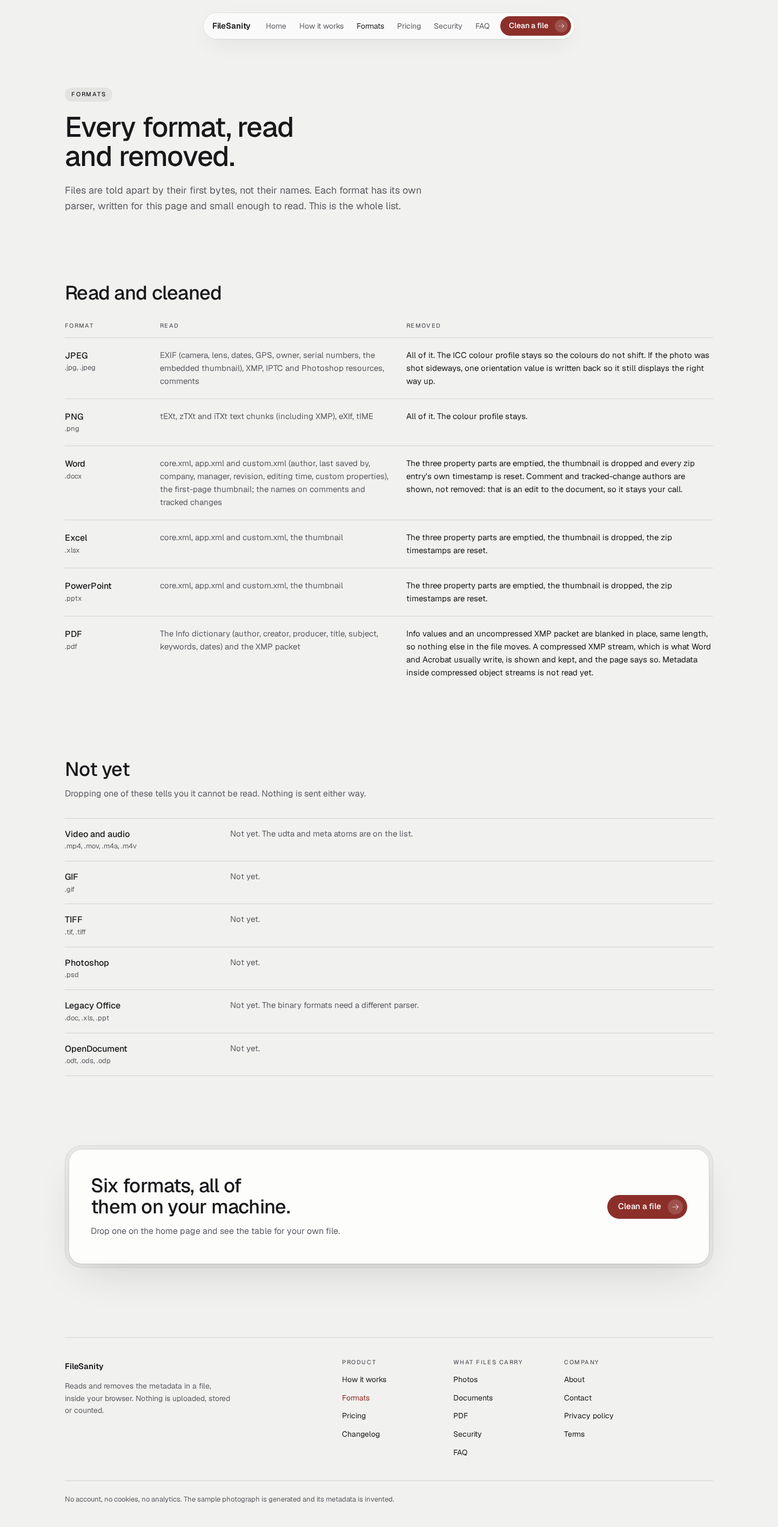
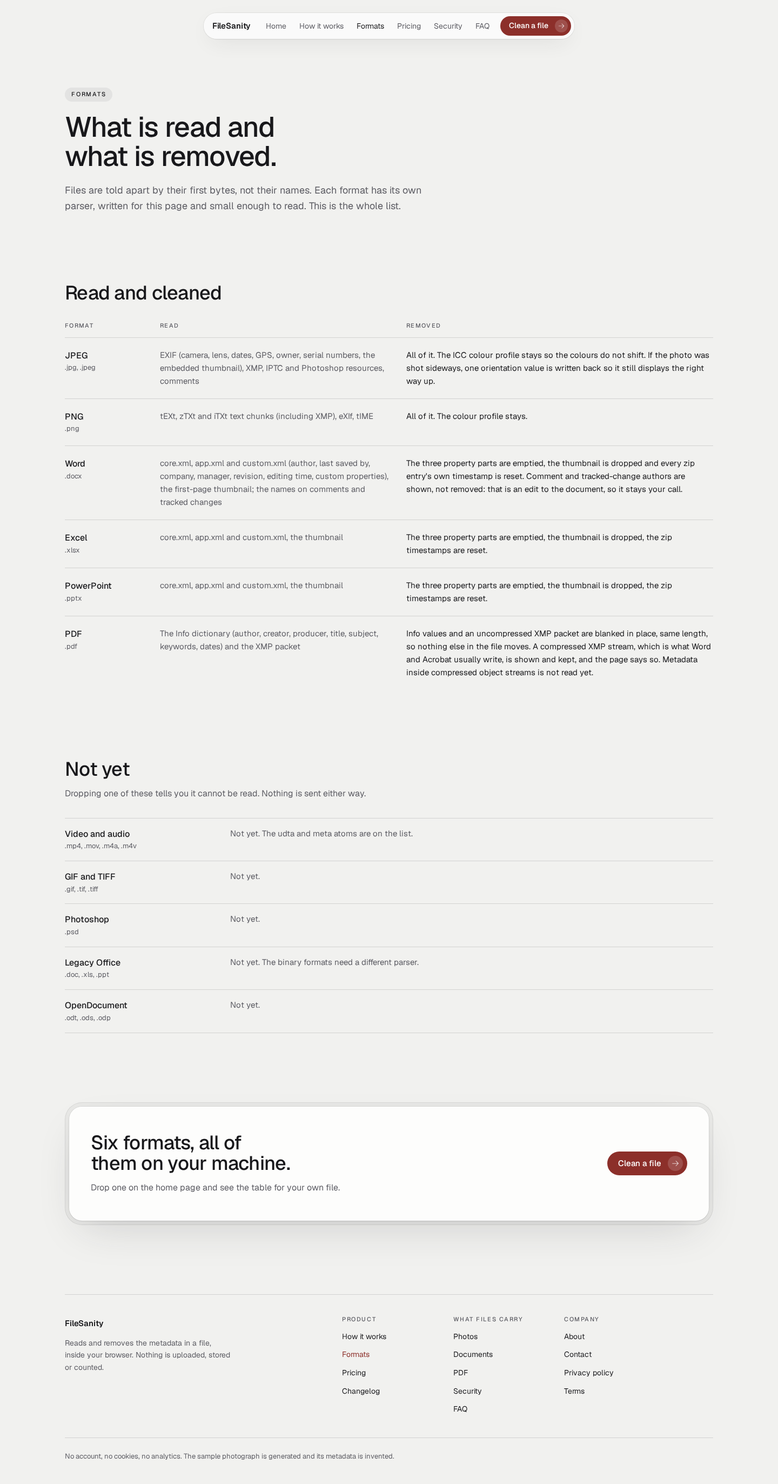
fix(site): critic round 1: published source and source map, marked placeholders and mailbox, menu focus trap, custom easings, security rows, headlines, five-item lists, no negative z

diff --git a/src/ui/Nav.tsx b/src/ui/Nav.tsx
@@ -16,14 +16,24 @@ export function Nav({ path, onClean }: { path: string; onClean?: () => void }) {
   const [open, setOpen] = useState(false)
   const first = useRef<HTMLAnchorElement>(null)
   const burger = useRef<HTMLButtonElement>(null)
+  const header = useRef<HTMLElement>(null)
 
   useEffect(() => {
     document.body.style.overflow = open ? 'hidden' : ''
+    // Everything outside the header is inert while the menu is open, so Tab stays inside nav and menu.
+    document.querySelectorAll<HTMLElement>('#root > :not(header)').forEach((el) => el.toggleAttribute('inert', open))
     if (open) first.current?.focus()
     const key = (e: KeyboardEvent) => {
-      if (e.key === 'Escape' && open) {
+      if (!open) return
+      if (e.key === 'Escape') {
         setOpen(false)
         burger.current?.focus()
+      } else if (e.key === 'Tab') {
+        // Wrap inside the header: inert covers the page, this covers the browser chrome.
+        const items = Array.from(header.current?.querySelectorAll<HTMLElement>('a[href], button') ?? []).filter((el) => el.tabIndex >= 0 && el.offsetParent !== null)
+        const i = items.indexOf(document.activeElement as HTMLElement)
+        if (e.shiftKey && (i <= 0)) { e.preventDefault(); items[items.length - 1]?.focus() }
+        else if (!e.shiftKey && i === items.length - 1) { e.preventDefault(); items[0]?.focus() }
       }
     }
     window.addEventListener('keydown', key)
@@ -43,7 +53,25 @@ export function Nav({ path, onClean }: { path: string; onClean?: () => void }) {
   )
 
   return (
-    <header className="pointer-events-none fixed inset-x-0 top-0 z-30 flex justify-center px-4 pt-4 sm:pt-6">
+    <header ref={header} className="pointer-events-none fixed inset-x-0 top-0 z-30 flex justify-center px-4 pt-4 sm:pt-6">
+      {/* The overlay comes first in the DOM so the nav pill paints over it without a z-index. */}
+      <div id="menu" data-open={open} className="menu pointer-events-auto fixed inset-0 bg-[rgb(241_241_239/0.86)] backdrop-blur-2xl lg:hidden">
+        <ul className="flex h-full flex-col justify-center gap-2 px-8">
+          {NAV.map(([href, label], i) => (
+            <li key={href} className="menu-item" style={{ '--d': `${80 + i * 50}ms` } as React.CSSProperties}>
+              <a
+                ref={i === 0 ? first : undefined}
+                href={href}
+                aria-current={path === href ? 'page' : undefined}
+                tabIndex={open ? 0 : -1}
+                className="block py-2 text-[2rem] font-medium tracking-[-0.02em] text-ink aria-[current=page]:text-accent"
+              >
+                {label}
+              </a>
+            </li>
+          ))}
+        </ul>
+      </div>
       <nav
         aria-label="Main"
         className="pointer-events-auto flex w-full max-w-[52rem] items-center gap-2 rounded-full bg-[rgb(253_253_252/0.78)] p-1.5 pl-4 shadow-[0_0_0_1px_var(--hair),var(--shadow)] backdrop-blur-xl lg:w-max"
@@ -57,7 +85,7 @@ export function Nav({ path, onClean }: { path: string; onClean?: () => void }) {
               <a
                 href={href}
                 aria-current={path === href ? 'page' : undefined}
-                className="block rounded-full px-3 py-1.5 text-[0.875rem] text-muted transition-colors duration-200 hover:text-ink aria-[current=page]:text-ink"
+                className="block rounded-full px-3 py-1.5 text-[0.875rem] text-muted transition-colors duration-200 ease-[var(--ease)] hover:text-ink aria-[current=page]:text-ink"
               >
                 {label}
               </a>
@@ -78,29 +106,6 @@ export function Nav({ path, onClean }: { path: string; onClean?: () => void }) {
           <span aria-hidden="true" />
         </button>
       </nav>
-      <div
-        id="menu"
-        data-open={open}
-        className="menu pointer-events-auto fixed inset-0 z-[-1] bg-[rgb(241_241_239/0.86)] backdrop-blur-2xl lg:hidden"
-        style={{ opacity: open ? 1 : 0, visibility: open ? 'visible' : 'hidden' }}
-      >
-        <ul className="flex h-full flex-col justify-center gap-2 px-8">
-          {NAV.map(([href, label], i) => (
-            <li key={href} style={{ '--d': `${80 + i * 50}ms` } as React.CSSProperties} className="menu-item">
-              <a
-                ref={i === 0 ? first : undefined}
-                href={href}
-                aria-current={path === href ? 'page' : undefined}
-                tabIndex={open ? 0 : -1}
-                className="block py-2 text-[2rem] font-medium tracking-[-0.02em] text-ink aria-[current=page]:text-accent"
-                style={{ '--d': `${80 + i * 50}ms` } as React.CSSProperties}
-              >
-                {label}
-              </a>
-            </li>
-          ))}
-        </ul>
-      </div>
     </header>
   )
 }

diff --git a/src/pages/Security.tsx b/src/pages/Security.tsx
@@ -11,14 +11,13 @@ const NONE: [string, string][] = [
   ['No cookies', 'Nothing is set, so nothing is read on your next visit and there is no banner to click.'],
   ['No account', 'Nothing to sign up for, nothing to leak if a database is breached, because there is no database.'],
   ['No third parties', 'The font, the stylesheet and the script are served from the same place as the page. No CDN of someone else\'s, no embedded widget.'],
-  ['Readable source', 'What your browser downloads is everything there is. Each parser is a few hundred lines; the network panel confirms what they do.'],
+  ['Published source', 'The parsers are published as plain text at /source, and the shipped script carries a source map, so the developer tools show the original files. Each parser is a few hundred lines; the network panel confirms what they do.'],
 ]
 
 const MODEL: [string, string][] = [
   ['A recipient who reads metadata', 'Protected. That is what the page is for: the fields a reader, a marketplace or a newsroom would pull out of your file are gone before you send it.'],
   ['A recipient who reads the content', 'Not protected, and cannot be. A photo of your street is still your street; a document that names you still names you. Redact the content in your editor.'],
-  ['The formats not yet read', 'Not protected. Video, GIF, TIFF, PSD, legacy Office, and the pictures pasted inside a Word document keep their metadata. The page refuses what it cannot read rather than pretend.'],
-  ['PDF compressed streams', 'Partly protected. Info and uncompressed XMP are blanked; compressed XMP and object streams are shown and kept, and the result says when that has happened.'],
+  ['What is not read yet', 'Not protected. Video, GIF, TIFF, PSD, legacy Office and the pictures pasted inside a Word document keep their metadata, and the page refuses what it cannot read rather than pretend. A PDF is partly protected: Info and uncompressed XMP are blanked, compressed XMP and object streams are shown and kept, and the result says when that has happened.'],
   ['This site being tampered with', 'Protected by what you can see. The site is served over HTTPS; the network panel shows what it loads and that it sends nothing. If the code ever did send something, that panel would show it.'],
   ['Your own machine', 'Not protected. A browser extension, a synced downloads folder or malware on the device sees the file regardless of this page.'],
 ]
@@ -33,13 +32,11 @@ export default function Security() {
       />
       <Section labelledBy="h-none">
         <h2 id="h-none" className="text-[1.75rem] sm:text-[2.25rem]">What the site does not have.</h2>
-        <div className="mt-8 grid grid-cols-1 gap-4 md:grid-cols-2 lg:grid-cols-3">
+        <div className="mt-6 grid grid-cols-1 gap-x-10 md:grid-cols-2">
           {NONE.map(([t, b], i) => (
-            <div key={t} className="bezel" data-reveal="" style={{ '--d': `${i * 50}ms` } as React.CSSProperties}>
-              <div className="plate h-full p-6">
-                <h3 className="text-[1.125rem]">{t}</h3>
-                <p className="mt-2 text-[0.9375rem] text-muted">{b}</p>
-              </div>
+            <div key={t} className="border-t border-hair-2 py-6" data-reveal="" style={{ '--d': `${i * 50}ms` } as React.CSSProperties}>
+              <h3 className="text-[1.125rem]">{t}</h3>
+              <p className="mt-2 max-w-[60ch] text-[0.9375rem] text-muted">{b}</p>
             </div>
           ))}
         </div>
@@ -65,6 +62,7 @@ export default function Security() {
           <h2 id="h-check" className="text-[1.75rem] sm:text-[2.25rem] lg:col-span-4">How to check.</h2>
           <div className="prose lg:col-span-8">
             <p>Open the browser's network panel, drop a file, clean it. No request appears. The <a className="link" href="/how-it-works">how it works</a> page has the keystrokes for each browser. Then disconnect from the network and do it again; it still works, because nothing was needed from anywhere.</p>
+            <p>Read the code that does it: <a className="link" href="/source/">the parsers, as plain text</a>. The same files are what the source map points the developer tools at.</p>
             <p>Found something wrong? Write to the address on the <a className="link" href="/contact">contact page</a>. A report about the parsers or the site is answered first.</p>
           </div>
         </div>

diff --git a/src/content.ts b/src/content.ts
@@ -1,7 +1,8 @@
 /** Shared facts. A number or a format that appears on two pages comes from here. */
 
 export const SITE = 'https://filesanity.com' // CLIENT: placeholder until the domain is confirmed
-export const MAIL = 'hello@filesanity.com' // CLIENT: placeholder address
+export const MAIL = 'hello@filesanity.com' // CLIENT: placeholder address; rendered only through <Mailbox /> so the mark travels with it
+export const POSTAL: string[] | null = null // CLIENT: the registered postal address, one line per element; null renders the client note
 export const LAUNCH = '20 September 2026'
 export const VERSION = '1.0'
 
@@ -15,8 +16,7 @@ export const FORMATS: Format[] = [
   { name: 'PowerPoint', ext: '.pptx', status: 'read', read: 'core.xml, app.xml and custom.xml, the thumbnail', removed: 'The three property parts are emptied, the thumbnail is dropped, the zip timestamps are reset.' },
   { name: 'PDF', ext: '.pdf', status: 'read', read: 'The Info dictionary (author, creator, producer, title, subject, keywords, dates) and the XMP packet', removed: 'Info values and an uncompressed XMP packet are blanked in place, same length, so nothing else in the file moves. A compressed XMP stream, which is what Word and Acrobat usually write, is shown and kept, and the page says so. Metadata inside compressed object streams is not read yet.' },
   { name: 'Video and audio', ext: '.mp4, .mov, .m4a, .m4v', status: 'not-yet', read: 'Not read yet', removed: 'Not yet. The udta and meta atoms are on the list.' },
-  { name: 'GIF', ext: '.gif', status: 'not-yet', read: 'Not read yet', removed: 'Not yet.' },
-  { name: 'TIFF', ext: '.tif, .tiff', status: 'not-yet', read: 'Not read yet', removed: 'Not yet.' },
+  { name: 'GIF and TIFF', ext: '.gif, .tif, .tiff', status: 'not-yet', read: 'Not read yet', removed: 'Not yet.' },
   { name: 'Photoshop', ext: '.psd', status: 'not-yet', read: 'Not read yet', removed: 'Not yet.' },
   { name: 'Legacy Office', ext: '.doc, .xls, .ppt', status: 'not-yet', read: 'Not read yet', removed: 'Not yet. The binary formats need a different parser.' },
   { name: 'OpenDocument', ext: '.odt, .ods, .odp', status: 'not-yet', read: 'Not read yet', removed: 'Not yet.' },
@@ -46,7 +46,7 @@ export const FAQ: { group: string; items: [string, string][] }[] = [
     items: [
       ['Why not just use metacleaner?', 'metacleaner and the sites like it upload your file to a server, clean it there and send it back, so you have to trust their storage, their logs and their deletion policy. FileSanity never has the file. That is not a promise; it is how the page is built.'],
       ['Do you use cookies or analytics?', 'No. The site sets no cookies and loads no analytics or advertising script, which is why there is no cookie banner. The privacy policy is short because there is nothing to describe.'],
-      ['Can I see the source?', 'Yes. The site is a static bundle with no server half: what your browser downloads is everything there is. View it with the browser\'s own tools. Every parser is a few hundred lines written for this page, with no metadata library behind it.'],
+      ['Can I see the source?', 'Yes. The parsers are published as plain text at /source, and the shipped script carries a source map, so the browser\'s developer tools show the original files rather than the minified bundle. There is no server half. Every parser is a few hundred lines written for this page, with no metadata library behind it.'],
       ['Who is behind this?', 'A small company with no investors and no data business. The about page says what it is and what it will not do; the contact page has the address.'],
     ],
   },

diff --git a/src/pages/Home.tsx b/src/pages/Home.tsx
@@ -61,7 +61,7 @@ export default function Home({ p }: { p: PickerApi }) {
               <div className="p-6 sm:p-8">
                 <h3 className="text-[1.25rem]">Photos</h3>
                 <p className="mt-2 max-w-[48ch] text-muted">JPEG and PNG carry the camera and lens, the exact time, GPS coordinates to a few metres, the owner's name, the software used, and often a small copy of the original picture from before it was cropped.</p>
-                <span className="mt-4 inline-flex items-center gap-2 text-[0.875rem] font-medium">Read about photos <ArrowRight size={14} weight="light" className="transition-transform duration-300 group-hover:translate-x-0.5" aria-hidden="true" /></span>
+                <span className="mt-4 inline-flex items-center gap-2 text-[0.875rem] font-medium">Read about photos <ArrowRight size={14} weight="light" className="transition-transform duration-300 ease-[var(--ease)] group-hover:translate-x-0.5" aria-hidden="true" /></span>
               </div>
             </div>
           </a>
@@ -71,7 +71,7 @@ export default function Home({ p }: { p: PickerApi }) {
               <div className="p-6 sm:p-8">
                 <h3 className="text-[1.25rem]">Word, Excel, PowerPoint</h3>
                 <p className="mt-2 text-muted">Author, company, who last saved it, the revision count, total editing time, and the names on every comment and tracked change.</p>
-                <span className="mt-4 inline-flex items-center gap-2 text-[0.875rem] font-medium">Read about documents <ArrowRight size={14} weight="light" className="transition-transform duration-300 group-hover:translate-x-0.5" aria-hidden="true" /></span>
+                <span className="mt-4 inline-flex items-center gap-2 text-[0.875rem] font-medium">Read about documents <ArrowRight size={14} weight="light" className="transition-transform duration-300 ease-[var(--ease)] group-hover:translate-x-0.5" aria-hidden="true" /></span>
               </div>
             </div>
           </a>
@@ -79,7 +79,7 @@ export default function Home({ p }: { p: PickerApi }) {
             <div className="plate flex h-full flex-col bg-[linear-gradient(160deg,var(--panel),var(--accent-tint))] p-6 sm:p-8">
               <h3 className="text-[1.25rem]">PDF</h3>
               <p className="mt-2 text-muted">The Info dictionary and the XMP packet: author, creator software, producer, creation and modification dates. Some of it sits in compressed streams, and the page says which.</p>
-              <span className="mt-4 inline-flex items-center gap-2 text-[0.875rem] font-medium">Read about PDF <ArrowRight size={14} weight="light" className="transition-transform duration-300 group-hover:translate-x-0.5" aria-hidden="true" /></span>
+              <span className="mt-4 inline-flex items-center gap-2 text-[0.875rem] font-medium">Read about PDF <ArrowRight size={14} weight="light" className="transition-transform duration-300 ease-[var(--ease)] group-hover:translate-x-0.5" aria-hidden="true" /></span>
             </div>
           </a>
         </div>

diff --git a/src/pages/Privacy.tsx b/src/pages/Privacy.tsx
@@ -1,5 +1,5 @@
-import { ClientNote, PageHead, Section } from '../ui/bits'
-import { LAUNCH, MAIL } from '../content'
+import { ClientNote, Mailbox, PageHead, Section } from '../ui/bits'
+import { LAUNCH } from '../content'
 
 export const meta = {
   title: 'Privacy policy',
@@ -21,13 +21,14 @@ export default function Privacy() {
           <h2>3. Cookies, analytics and third parties</h2>
           <p>The site sets no cookies and uses no local storage. It loads no analytics, advertising or error-reporting script and embeds nothing from a third party. There is no cookie banner because there is nothing to consent to.</p>
           <h2>4. Email</h2>
-          <p>If you write to us at {MAIL}, we keep your message for as long as it takes to answer it and for our records after that. We do not add you to a list. You can ask us to delete the correspondence at any time.</p>
+          <p>If you write to us at <Mailbox />, we keep your message for as long as it takes to answer it and for our records after that. We do not add you to a list. You can ask us to delete the correspondence at any time.</p>
           <h2>5. Your rights</h2>
           <p>Because we hold no data about your use of the site, there is nothing to access, correct, export or erase, other than any email you have sent us, which you may ask us to delete.</p>
           <h2>6. Changes</h2>
           <p>If the site ever gains a feature that collects anything, this page will be rewritten before that feature ships, the date at the top will change, and the changelog will say so.</p>
           <h2>7. Who we are</h2>
-          <p>The company that operates this site is named on the about page, with the address on the contact page. Questions about this policy go to {MAIL}.</p>
+          <p>The company that operates this site is named on the about page, with its address on the contact page. Questions about this policy go to <Mailbox />.</p>
+          <ClientNote>Client to supply: the operating company's legal name and address, here and on the about and contact pages.</ClientNote>
         </div>
       </Section>
     </>

diff --git a/src/pages/Contact.tsx b/src/pages/Contact.tsx
@@ -1,5 +1,5 @@
-import { MAIL } from '../content'
-import { ClientNote, PageHead, Pill, Section } from '../ui/bits'
+import { MAIL, POSTAL } from '../content'
+import { ClientNote, Mailbox, PageHead, Pill, Section } from '../ui/bits'
 
 export const meta = {
   title: 'Contact FileSanity',
@@ -16,21 +16,19 @@ export default function Contact() {
             <div className="plate flex h-full flex-col p-6 sm:p-8">
               <h2 className="text-[1.5rem]">Email</h2>
               <p className="mt-2 max-w-[44ch] text-muted">Reports about a parser or the site are answered first. Anything else within a few days.</p>
-              <p className="mt-4 text-[1.125rem] font-medium">{MAIL}</p>
+              <p className="mt-4 text-[1.125rem] font-medium"><Mailbox /></p>
               <div className="mt-6"><Pill href={`mailto:${MAIL}`}>Email us</Pill></div>
-              <ClientNote>Client to confirm: the mailbox above is a placeholder on the assumed domain.</ClientNote>
             </div>
           </div>
           <div className="bezel" data-reveal="" style={{ '--d': '80ms' } as React.CSSProperties}>
             <div className="plate flex h-full flex-col p-6 sm:p-8">
               <h2 className="text-[1.5rem]">Post</h2>
               <p className="mt-2 max-w-[44ch] text-muted">For anything that needs a signature.</p>
-              <address className="mt-4 not-italic leading-relaxed text-muted">
-                FileSanity<br />
-                Registered address to follow<br />
-                Country to follow
-              </address>
-              <ClientNote>Client to supply: the registered postal address.</ClientNote>
+              {POSTAL ? (
+                <address className="mt-4 not-italic leading-relaxed text-muted">{POSTAL.map((l) => <span key={l} className="block">{l}</span>)}</address>
+              ) : (
+                <ClientNote>Client to supply: the registered postal address. The block renders once it is set in src/content.ts.</ClientNote>
+              )}
             </div>
           </div>
         </div>

diff --git a/src/pages/About.tsx b/src/pages/About.tsx
@@ -8,7 +8,7 @@ export const meta = {
 export default function About() {
   return (
     <>
-      <PageHead eyebrow="About" title="A small company, one job." lede="FileSanity removes the metadata a file carries about the person who made it, and does so without ever seeing the file. That is the whole product." />
+      <PageHead eyebrow="About" title="A small company that does one thing." lede="FileSanity removes the metadata a file carries about the person who made it, and does so without ever seeing the file. That is the whole product." />
       <Section labelledBy="h-why">
         <div className="grid grid-cols-1 gap-8 lg:grid-cols-12">
           <h2 id="h-why" className="text-[1.75rem] sm:text-[2.25rem] lg:col-span-4">Why it exists.</h2>
@@ -35,8 +35,8 @@ export default function About() {
         <div className="grid grid-cols-1 gap-8 lg:grid-cols-12">
           <h2 id="h-who" className="text-[1.75rem] sm:text-[2.25rem] lg:col-span-4">Who makes it.</h2>
           <div className="prose lg:col-span-8">
-            <p>FileSanity is made and run by a small company with no investors and no data business. The people behind it and the registered company details will be listed here before launch.</p>
-            <ClientNote>Client to supply: the founders' names and roles, the company's legal name and registration number, and the country of incorporation.</ClientNote>
+            <p>FileSanity is made and run by a small company with no investors and no data business.</p>
+            <ClientNote>Client to supply: the founders' names and roles, the company's legal name, registration number and country of incorporation, to be listed here before launch.</ClientNote>
           </div>
         </div>
       </Section>

diff --git a/src/index.css b/src/index.css
@@ -190,10 +190,10 @@
   .burger span:last-child { translate: 0 3px; }
   .burger[aria-expanded='true'] span:first-child { translate: 0 0; rotate: 45deg; }
   .burger[aria-expanded='true'] span:last-child { translate: 0 0; rotate: -45deg; }
-  .menu { transition: opacity 400ms var(--ease), visibility 0s 400ms; }
-  .menu[data-open='true'] { transition: opacity 400ms var(--ease), visibility 0s; }
-  .menu a, .menu .menu-item { opacity: 0; translate: 0 2rem; transition: opacity 500ms var(--ease), translate 600ms var(--ease); transition-delay: var(--d, 0ms); }
-  .menu[data-open='true'] a, .menu[data-open='true'] .menu-item { opacity: 1; translate: 0 0; }
+  .menu { opacity: 0; visibility: hidden; transition: opacity 400ms var(--ease), visibility 0s 400ms; }
+  .menu[data-open='true'] { opacity: 1; visibility: visible; transition: opacity 400ms var(--ease), visibility 0s; }
+  .menu .menu-item { opacity: 0; translate: 0 2rem; transition: opacity 500ms var(--ease), translate 600ms var(--ease); transition-delay: var(--d, 0ms); }
+  .menu[data-open='true'] .menu-item { opacity: 1; translate: 0 0; }
 
   .spin { animation: spin 900ms linear infinite; }
   @keyframes spin { to { rotate: 360deg; } }
@@ -201,6 +201,6 @@
 
 @media (prefers-reduced-motion: reduce) {
   .js [data-reveal] { opacity: 1; translate: 0 0; transition: none; }
-  .menu a, .menu .menu-item, .burger span, .pill, .pill .orb, .menu { transition-duration: 0.01ms; }
+  .menu .menu-item, .burger span, .pill, .pill .orb, .menu { transition-duration: 0.01ms; }
   .spin { animation: none; }
 }

diff --git a/src/pages/Pricing.tsx b/src/pages/Pricing.tsx
@@ -1,13 +1,13 @@
 import { Check } from '@phosphor-icons/react'
 import { MAIL } from '../content'
-import { Closer, PageHead, Pill, Section } from '../ui/bits'
+import { Closer, Mailbox, PageHead, Pill, Section } from '../ui/bits'
 
 export const meta = {
   title: 'Pricing: free, no account, no upload',
   description: 'Everything on this site is free with no account and no limit. Pro and Teams plans for batches, an API and a browser extension are coming; no prices are set yet.',
 }
 
-const FREE = ['Every format on the formats page', 'No file size limit and no daily count', 'No account, no email, no cookie', 'Works offline once loaded', 'The full field table for every file', 'The source, readable in your browser']
+const FREE = ['Every format on the formats page', 'No file size limit and no daily count', 'No account, no email, no cookie', 'Works offline once loaded', 'The parser source, published as plain text']
 
 export default function Pricing() {
   const subject = encodeURIComponent('Tell me when Pro is ready')
@@ -65,7 +65,7 @@ export default function Pricing() {
       </Section>
       <Closer
         title="Hear when Pro is ready."
-        text={`A plain email, no list to join. Write to ${MAIL} and you will get one reply when there is something to try.`}
+        text={<>A plain email, no list to join. Write to <Mailbox /> and you will get one reply when there is something to try.</>}
         cta={<Pill href={`mailto:${MAIL}?subject=${subject}&body=${body}`}>Email us</Pill>}
       />
     </>

diff --git a/src/ui/bits.tsx b/src/ui/bits.tsx
@@ -1,5 +1,6 @@
 import type { ReactNode } from 'react'
 import { ArrowRight } from '@phosphor-icons/react'
+import { MAIL } from '../content'
 
 /** Page header for every page but the home. */
 export function PageHead({ eyebrow, title, lede, children }: { eyebrow?: string; title: string; lede?: ReactNode; children?: ReactNode }) {
@@ -33,7 +34,7 @@ export function Pill({ href, children, ghost, className = '' }: { href: string; 
 }
 
 /** The closing band: a bezel plate with the statement left and the one CTA right. */
-export function Closer({ title, text, cta }: { title: string; text: string; cta?: ReactNode }) {
+export function Closer({ title, text, cta }: { title: string; text: ReactNode; cta?: ReactNode }) {
   return (
     <Section>
       <div className="bezel bezel-lg" data-reveal="">
@@ -46,6 +47,16 @@ export function Closer({ title, text, cta }: { title: string; text: string; cta?
         </div>
       </div>
     </Section>
+  )
+}
+
+/** The mailbox, always with its mark: the address is a placeholder on the assumed domain until the client confirms it. */
+export function Mailbox() {
+  return (
+    <span>
+      <a className="link [overflow-wrap:anywhere]" href={`mailto:${MAIL}`}>{MAIL}</a>
+      <span className="ml-1.5 rounded bg-accent-tint px-1.5 py-0.5 align-middle text-[0.6875rem] font-medium text-accent-deep">client to confirm</span>
+    </span>
   )
 }
 

diff --git a/src/pages/Terms.tsx b/src/pages/Terms.tsx
@@ -1,5 +1,5 @@
-import { ClientNote, PageHead, Section } from '../ui/bits'
-import { LAUNCH, MAIL } from '../content'
+import { ClientNote, Mailbox, PageHead, Section } from '../ui/bits'
+import { LAUNCH } from '../content'
 
 export const meta = {
   title: 'Terms of use',
@@ -26,8 +26,9 @@ export default function Terms() {
           <p>To the extent the law allows, we are not liable for any loss arising from use of the site, including loss caused by a field that was not removed. Nothing in these terms limits liability that cannot be limited by law.</p>
           <h2>6. Changes and law</h2>
           <p>We may change these terms; the date at the top and the changelog will say when. The governing law and the courts are those of the country where the operating company is registered, which is stated on the about page.</p>
+          <ClientNote>Client to supply: the country of registration, here and on the about page.</ClientNote>
           <h2>7. Contact</h2>
-          <p>Questions about these terms go to {MAIL}.</p>
+          <p>Questions about these terms go to <Mailbox />.</p>
         </div>
       </Section>
     </>

diff --git a/src/ui/Picker.tsx b/src/ui/Picker.tsx
@@ -144,7 +144,7 @@ function Chip({ name, size, kind, onRemove }: { name: string; size?: number; kin
       </span>
       <span className="min-w-0 flex-1 truncate text-[0.875rem] font-medium" title={name}>{name}</span>
       {size !== undefined && <span className="flex-none text-[0.8125rem] tabular-nums text-muted">{fmtBytes(size)}</span>}
-      <button type="button" onClick={onRemove} aria-label={`Remove ${name}`} className="flex h-8 w-8 flex-none items-center justify-center rounded-full text-muted transition-colors duration-200 hover:bg-panel hover:text-ink">
+      <button type="button" onClick={onRemove} aria-label={`Remove ${name}`} className="flex h-8 w-8 flex-none items-center justify-center rounded-full text-muted transition-colors duration-200 ease-[var(--ease)] hover:bg-panel hover:text-ink">
         <X size={16} weight="light" aria-hidden="true" />
       </button>
     </div>
